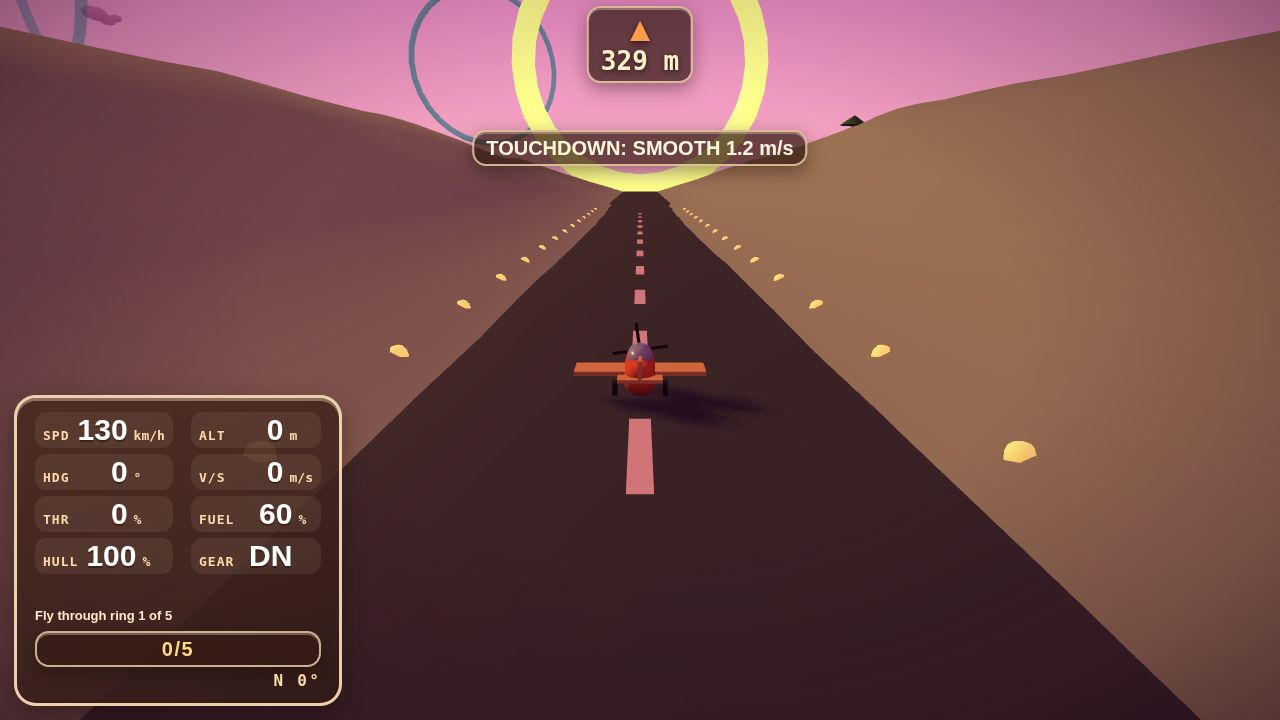
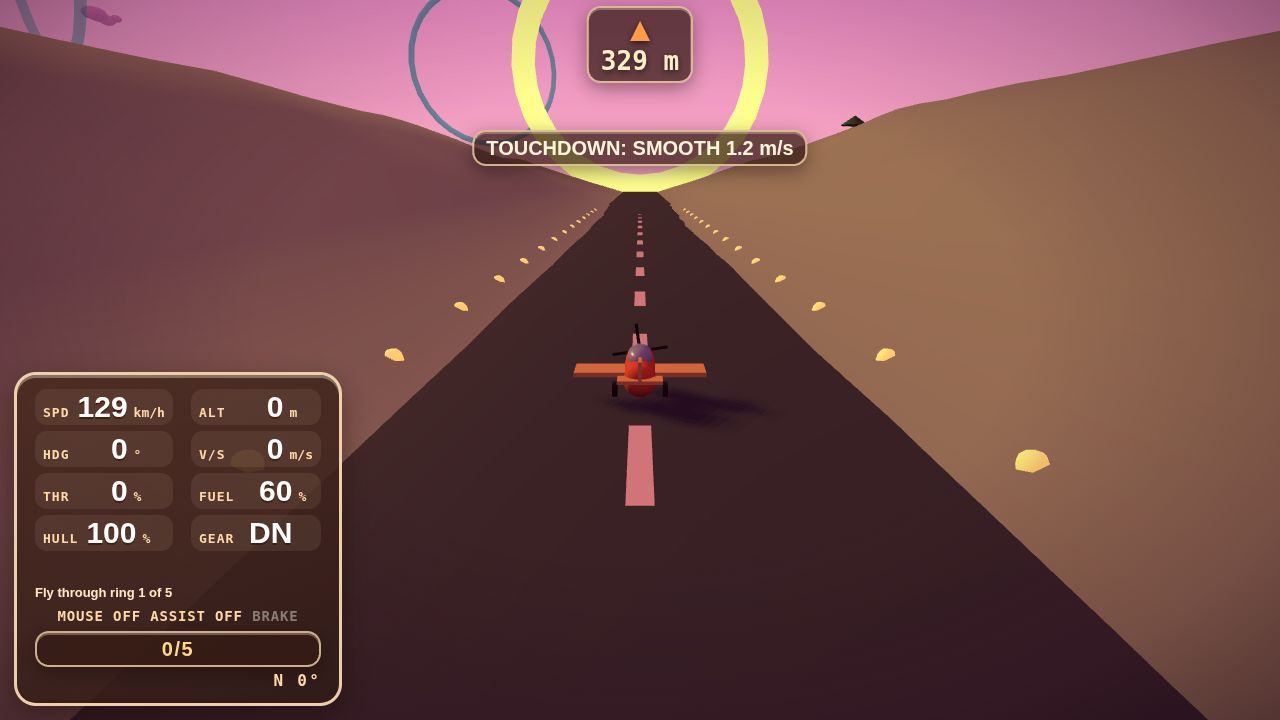
CP8 step 1: input-driven pitch with pure assist, mouse default off + crosshair, split brake, top-right hint

diff --git a/game/src/main.js b/game/src/main.js
@@ -79,6 +79,7 @@ let paused = false;
 let cameraMode = shotMode === "cockpit" ? 1 : 0;
 if (isShotScene) {
   setPhase("FLYING");
+  if (shotMode === "landing" || shotMode === "touchdown") input.controls.assist = false;
   if (shotMode === "chase-ring") {
     Object.assign(state, { x: 0, y: 80, z: 120, heading: 0, speed: 58, throttle: 0.55, fuel: 70, onGround: false, pitch: 0.02, roll: 0.04 });
     missionState.phase = "RINGS";
@@ -136,17 +137,13 @@ function tick() {
       yaw: c.yaw,
       throttleDelta: engineOut(state) ? -1 : (c.throttleUp ? 1 : 0) - (c.throttleDown ? 1 : 0),
       brake: c.brake,
+      assist: c.assist,
     };
     stepFlight(state, flightC, dt, groundHeightAt);
     if (engineOut(state)) state.throttle = 0;
     stepFuel(state, dt, state.ceilingFactor, getMission(missionState.id).fuelScale || 1);
     if (c.gearToggle) state.gearDown = !state.gearDown;
-    if (!state.onGround && c.assist && c.pitch === 0 && c.roll === 0 && shotMode !== "landing") {
-      state.roll *= Math.max(0, 1 - 2 * dt);
-      const lvl = 0.5 * dt;
-      if (Math.abs(state.pitch) <= lvl) state.pitch = 0;
-      else state.pitch -= Math.sign(state.pitch) * lvl;
-    }
+    if (!state.onGround && shotMode !== "landing") state.roll *= Math.max(0, 1 - 2 * dt);
     const onRunway = RUNWAYS.some((r) => Math.abs(state.x - r.cx) <= r.halfW && Math.abs(state.z - r.cz) <= r.halfL);
     const surface = onRunway ? "runway" : (groundBefore <= 0.5 ? "water" : "grass");
     if (!prevOnGround && state.onGround) {
@@ -239,6 +236,8 @@ function tick() {
   }
 
   hud.update(state, agl);
+  hud.setSwitches(c);
+  hud.setMouseMarker(c.mouseSteer && input.mouse.enabled, input.mouse.x, input.mouse.y);
   if (cockpitMode) {
     cockpit.update(propAngle);
     instruments.update(state, agl);

diff --git a/game/src/hud/hud.js b/game/src/hud/hud.js
@@ -47,6 +47,16 @@ export function createHud(doc) {
   objective.textContent = "Take off, then land on the runway";
   el.appendChild(objective);
 
+  const switches = doc.createElement("div");
+  switches.className = "hud-switches";
+  switches.innerHTML = '<span id="hud-mouse">MOUSE OFF</span> <span id="hud-assist">ASSIST ON</span> <span id="hud-brake">BRAKE</span>';
+  el.appendChild(switches);
+
+  const marker = doc.createElement("div");
+  marker.id = "mouse-crosshair";
+  marker.textContent = "+";
+  doc.body.appendChild(marker);
+
   const rings = doc.createElement("div");
   rings.id = "hud-rings";
   rings.className = "hud-rings";
@@ -92,6 +102,18 @@ export function createHud(doc) {
       if (!state.onGround && state.speed < FLIGHT.stallSpeed) warnings.push("STALL");
       warning.textContent = warnings.join("  ");
       this.renderCompass(hdg);
+    },
+    setSwitches(controls) {
+      document.getElementById("hud-mouse").textContent = controls.mouseSteer ? "MOUSE ON" : "MOUSE OFF";
+      document.getElementById("hud-assist").textContent = controls.assist ? "ASSIST ON" : "ASSIST OFF";
+      const brake = document.getElementById("hud-brake");
+      brake.textContent = "BRAKE";
+      brake.classList.toggle("on", !!controls.brake);
+    },
+    setMouseMarker(enabled, x, y) {
+      const m = document.getElementById("mouse-crosshair");
+      m.style.display = enabled ? "block" : "none";
+      if (enabled) m.style.transform = "translate(-50%, -50%) translate(" + Math.round(x * 120) + "px," + Math.round(y * 80) + "px)";
     },
     setRingCount(text) {
       document.getElementById("hud-rings").textContent = text;

diff --git a/game/src/flight-model.js b/game/src/flight-model.js
@@ -93,6 +93,12 @@ export function stepFlight(state, controls, dt, groundHeightAt) {
     dv -= g.gravity * (sinPitch * g.pitchFactor + steep * g.climbBleed);
     const auth = authority(state.speed);
     state.pitch = clamp(state.pitch + (c.pitch ?? 0) * g.pitchRate * auth * step, -g.maxPitch, g.maxPitch);
+    if ((c.assist ?? false) && (c.pitch ?? 0) === 0) {
+      const level = g.assistRate * step;
+      if (Math.abs(state.pitch) <= level) state.pitch = 0;
+      else state.pitch -= Math.sign(state.pitch) * level;
+    }
+    dv -= (c.brake ? g.airBrake : 0);
     state.roll = clamp(state.roll + (c.roll ?? 0) * g.rollRate * auth * step, -1.5, 1.5);
     state.heading += (c.yaw ?? 0) * 0.5 * auth * step;
     state.heading += (g.gravity * Math.tan(state.roll)) / Math.max(state.speed, g.turnMinSpeed) * step;
@@ -100,7 +106,7 @@ export function stepFlight(state, controls, dt, groundHeightAt) {
     state.pitch = 0;
     state.roll = 0;
     state.heading += (c.yaw ?? 0) * g.groundSteerRate * step;
-    dv -= state.speed * g.groundFriction + (c.brake ? g.brakeFriction : 0);
+    dv -= state.speed * g.groundFriction + (c.brake && state.gearDown ? g.brakeFriction : 0);
   }
 
   state.speed = clamp(state.speed + dv * step, 0, g.maxSpeed);

diff --git a/game/styles.css b/game/styles.css
@@ -82,13 +82,12 @@ html, body {
 
 #controls-hint {
   position: fixed;
-  left: 50%;
-  bottom: 18px;
-  transform: translateX(-50%);
-  padding: 8px 16px;
-  max-width: 86vw;
-  font: 600 13px/1.5 ui-monospace, SFMono-Regular, Menlo, monospace;
-  text-align: center;
+  right: 14px;
+  top: 14px;
+  padding: 8px 12px;
+  max-width: min(420px, 40vw);
+  font: 600 12px/1.45 ui-monospace, SFMono-Regular, Menlo, monospace;
+  text-align: left;
   color: #fff7ec;
   background: rgba(40, 24, 16, 0.62);
   border-radius: 12px;
@@ -291,5 +290,34 @@ body.cockpit #instruments {
   z-index: 5;
 }
 #controls-hint {
+  z-index: 8;
+}
+
+.hud-switches {
+  grid-column: 1 / -1;
+  font: 700 14px/1.2 ui-monospace, monospace;
+  letter-spacing: 0.06em;
+  color: #ffd9a8;
+  text-align: center;
+}
+#hud-brake {
+  color: #8a7d72;
+}
+#hud-brake.on {
+  color: #ff6b52;
+}
+#mouse-crosshair {
+  display: none;
+  position: fixed;
+  left: 50%;
+  top: 50%;
+  width: 18px;
+  height: 18px;
+  line-height: 16px;
+  text-align: center;
+  font: 700 18px/16px ui-monospace, monospace;
+  color: #ffddaa;
+  text-shadow: 0 1px 3px rgba(0, 0, 0, 0.8);
+  pointer-events: none;
   z-index: 8;
 }

diff --git a/game/src/config.js b/game/src/config.js
@@ -31,7 +31,11 @@ export const FLIGHT = {
   throttleRate: 0.8,
   // Ground rolling drag (per second) and brake deceleration.
   groundFriction: 0.15,
-  brakeFriction: 8,
+  brakeFriction: 6,
+  // Airbrake deceleration while B is held in flight (m/s^2).
+  airBrake: 4,
+  // Stability assist pitch-levelling rate (rad/s) with no pitch input.
+  assistRate: 0.6,
   // Pitch is limited to +/-50 degrees; the plane cannot point straight up.
   maxPitch: 50 * Math.PI / 180,
   // Extra gravity bleed ramps in above this pitch (20 degrees).

diff --git a/game/src/input.js b/game/src/input.js
@@ -4,7 +4,7 @@
 // while any key of an axis is held, the keyboard owns that axis. KeyM toggles
 // mouse steering, KeyI inverts pitch (keyboard and mouse).
 
-const DEAD_ZONE = 0.06;
+const DEAD_ZONE = 0.1;
 
 const GAME_KEYS = new Set([
   "KeyW", "KeyA", "KeyS", "KeyD", "KeyQ", "KeyE", "KeyZ", "KeyX", "KeyG",
@@ -39,7 +39,7 @@ export function createInput(window) {
   };
 
   const mouse = { enabled: false, x: 0, y: 0 };
-  let mouseSteerOn = true;
+  let mouseSteerOn = false;
   let invert = false;
 
   function onKeyDown(event) {
